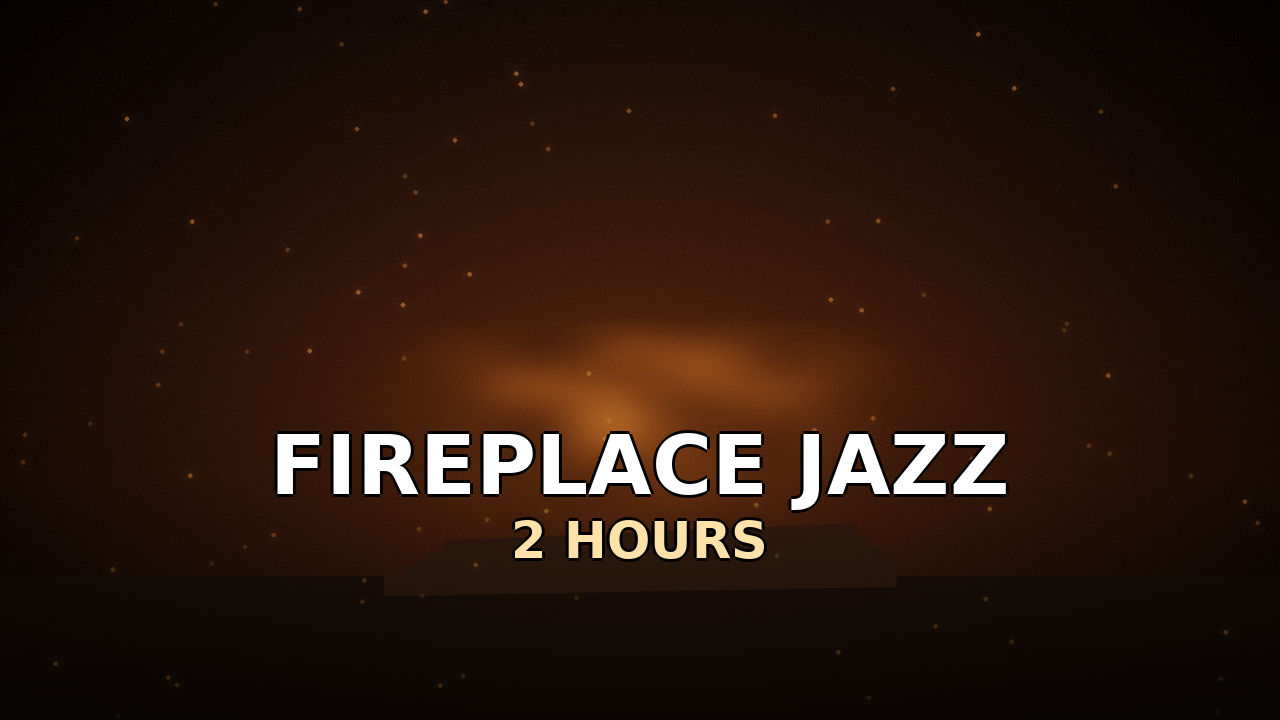
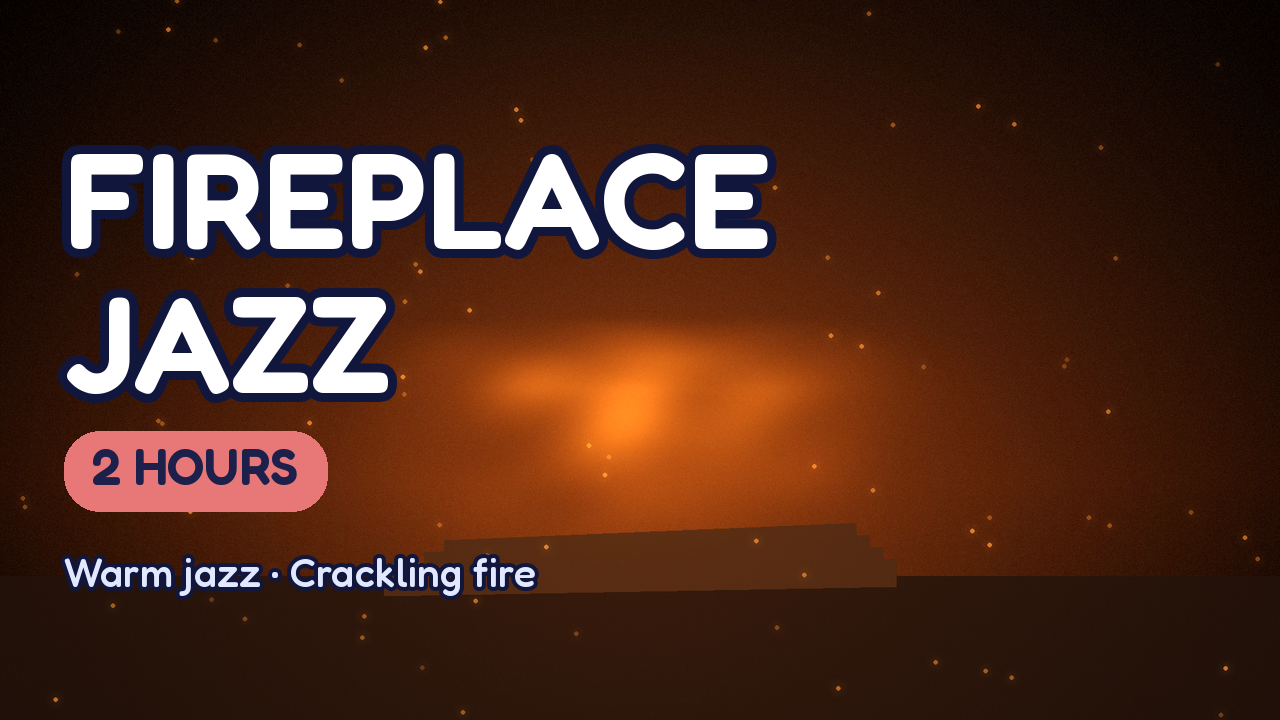
feat: BGM のサムネを太字スタイルに統一し、Sleep Piano 第2・3弾と B 柱の環境音削減を追加する
Claude-Session: https://claude.ai/code/session_014Nr9ShkX7adVXWWXqwiaYN

diff --git a/bgm_studio/tracks.py b/bgm_studio/tracks.py
@@ -333,14 +333,14 @@ def build_cafe_jazz(spec: TrackSpec, seconds: float) -> tuple[np.ndarray, dict]:
                 gain=0.30, octave=-2, rng=rng,
                 scale_root=spec.key_root, scale=spec.scale)
     A.play_jazz_brushes(buf, spans, clock, bank, gain=0.22, rng=rng)
-    A.play_melody(buf, spans, clock, bank, inst="piano", gain=0.22,
+    A.play_melody(buf, spans, clock, bank, inst="soft_piano", gain=0.22,
                   scale_root=spec.key_root, scale=spec.scale,
                   lo=64, hi=86, density=0.5, rng=rng, rest_prob=0.34, pan=0.15)
 
     ir = dsp.make_reverb_ir(2.2, rt60=1.5, damp=0.5, predelay=0.015, seed=spec.seed)
     n = clock.n_samples
     beds = [
-        (lambda: NT.cafe_ambience(n, seed=spec.seed + 1), -20.0),
+        (lambda: NT.cafe_ambience(n, seed=spec.seed + 1), -26.0),   # 旧 -20。雑音っぽさを避ける
         (lambda: NT.room_tone(n, seed=spec.seed + 2), -32.0),
     ]
 
@@ -376,7 +376,7 @@ def build_bossa(spec: TrackSpec, seconds: float) -> tuple[np.ndarray, dict]:
     ir = dsp.make_reverb_ir(2.0, rt60=1.3, damp=0.45, seed=spec.seed)
     n = clock.n_samples
     beds = [
-        (lambda: NT.cafe_ambience(n, seed=spec.seed + 1), -24.0),
+        (lambda: NT.cafe_ambience(n, seed=spec.seed + 1), -29.0),   # 旧 -24
         (lambda: NT.room_tone(n, seed=spec.seed + 2), -34.0),
     ]
 
@@ -849,7 +849,7 @@ def build_christmas_jazz(spec: TrackSpec, seconds: float) -> tuple[np.ndarray, d
 
     A.play_comp(buf, spans, clock, bank, inst="piano", style="jazz",
                 gain=0.24, voicing="rootless", center=62, swing=0.55, rng=rng)
-    A.play_melody(buf, spans, clock, bank, inst="celesta", gain=0.18,
+    A.play_melody(buf, spans, clock, bank, inst="music_box", gain=0.18,
                   scale_root=spec.key_root, scale=spec.scale,
                   lo=72, hi=93, density=0.40, rng=rng, rest_prob=0.42)
     A.play_bass(buf, spans, clock, bank, inst="upright", style="walk",
@@ -857,13 +857,13 @@ def build_christmas_jazz(spec: TrackSpec, seconds: float) -> tuple[np.ndarray, d
                 scale_root=spec.key_root, scale=spec.scale)
     A.play_jazz_brushes(buf, spans, clock, bank, gain=0.15, rng=rng,
                         ride_prob=0.35)
-    A.play_sleigh(buf, spans, clock, bank, gain=0.10, rng=rng)
+    A.play_sleigh(buf, spans, clock, bank, gain=0.06, rng=rng)   # 鈴はノイズ成分が多いので控えめに
 
     ir = dsp.make_reverb_ir(2.6, rt60=2.0, damp=0.5, predelay=0.02,
                             seed=spec.seed)
     n = clock.n_samples
     beds = [
-        (lambda: NT.fireplace(n, seed=spec.seed + 1), -18.0),
+        (lambda: NT.fireplace(n, seed=spec.seed + 1), -23.0),   # 旧 -18
         (lambda: NT.room_tone(n, seed=spec.seed + 2), -33.0),
     ]
 
@@ -1749,6 +1749,34 @@ TRACKS: list[TrackSpec] = [
             keywords=["sleep piano", "sleep music", "piano music for sleep",
                       "relaxing piano", "deep sleep music", "calm piano",
                       "sleep music no rain", "3 hours sleep music"],
+        ),
+    ),
+    TrackSpec(
+        slug="g02_deep_sleep_piano",
+        title_en="Deep Sleep Piano",
+        genre_ja="深い眠りのピアノ（雨音・雑音なし／第2弾）",
+        use_case="sleep", bpm=54.0, key="D", key_root=2, scale="major",
+        prog_key="ambient", visual="moon_lake_violet", seed=7202,
+        build=build_gentle_piano,
+        seo=dict(
+            title="Deep Sleep Piano 🌙 3 Hours of Calm Piano Music | No Rain, No Noise",
+            keywords=["deep sleep piano", "sleep music", "calm piano", "piano music for sleep",
+                      "relaxing sleep music", "sleep music no rain", "3 hours sleep music",
+                      "soft piano"],
+        ),
+    ),
+    TrackSpec(
+        slug="g03_emotional_sleep_piano",
+        title_en="Emotional Sleep Piano",
+        genre_ja="心に残る旋律の睡眠ピアノ（雨音・雑音なし／第3弾）",
+        use_case="sleep", bpm=60.0, key="C", key_root=0, scale="major",
+        prog_key="anime", visual="moon_lake_teal", seed=7303,
+        build=build_gentle_piano,
+        seo=dict(
+            title="Beautiful Sleep Piano 🌙 3 Hours of Emotional Piano for Sleep | No Rain, No Noise",
+            keywords=["sleep piano", "emotional piano", "beautiful piano music", "sleep music",
+                      "anime piano sleep", "relaxing piano", "piano music for sleep",
+                      "sleep music no rain"],
         ),
     ),
     TrackSpec(

diff --git a/bgm_studio/sleep_visuals.py b/bgm_studio/sleep_visuals.py
@@ -19,12 +19,24 @@ from .kids_visuals import _font, _outlined, moon_sprite, sparkle_sprite
 from .visuals import H, TWO_PI, W, _upscale, static_grain, vgrad
 
 
-def scene_moon_lake(seed: int = 90):
+# Sleep Piano シリーズの色違い。同じ構図で色だけ変え、シリーズとして並んだときに
+# 「同じチャンネルの別の回」と一目で分かるようにする
+PALETTES = {
+    "blue": dict(sky=[(14, 22, 58), (30, 42, 92), (62, 74, 134), (104, 104, 160)],
+                 ridge=[(36, 40, 82), (24, 28, 62)]),
+    "violet": dict(sky=[(28, 16, 58), (58, 36, 104), (112, 74, 150), (176, 120, 170)],
+                   ridge=[(62, 40, 96), (42, 26, 72)]),
+    "teal": dict(sky=[(8, 26, 46), (18, 54, 78), (40, 96, 116), (92, 140, 150)],
+                 ridge=[(20, 52, 66), (12, 36, 50)]),
+}
+
+
+def scene_moon_lake(seed: int = 90, palette: str = "blue"):
     """静かな湖に映る三日月。揺れるのは月の映り込みと星だけ"""
     rng = np.random.default_rng(seed)
+    pal = PALETTES[palette]
     horizon = 0.66
-    sky = vgrad([(14, 22, 58), (30, 42, 92), (62, 74, 134), (104, 104, 160)],
-                stops=[0.0, 0.40, 0.56, horizon])
+    sky = vgrad(pal["sky"], stops=[0.0, 0.40, 0.56, horizon])
     y = np.linspace(0, 1, H, dtype=np.float32)[:, None]
     x = np.linspace(0, 1, W, dtype=np.float32)[None, :]
     mx, my = 0.64, 0.28
@@ -37,8 +49,8 @@ def scene_moon_lake(seed: int = 90):
     ridge2 = horizon - 0.020 - 0.018 * np.sin(TWO_PI * (xs * 3.1 + 0.4))
     m1 = ((y >= ridge1[None, :]) & (y < horizon)).astype(np.float32)
     m2 = ((y >= ridge2[None, :]) & (y < horizon)).astype(np.float32)
-    sky = sky * (1 - m1[:, :, None]) + m1[:, :, None] * np.array([36, 40, 82])
-    sky = sky * (1 - m2[:, :, None]) + m2[:, :, None] * np.array([24, 28, 62])
+    sky = sky * (1 - m1[:, :, None]) + m1[:, :, None] * np.array(pal["ridge"][0])
+    sky = sky * (1 - m2[:, :, None]) + m2[:, :, None] * np.array(pal["ridge"][1])
     # 湖面 (空を上下反転して暗くしたもの)
     water_rows = H - int(horizon * H)
     top = int(horizon * H)
@@ -89,19 +101,25 @@ def scene_moon_lake(seed: int = 90):
     return frame
 
 
-SLEEP_SCENES = {"moon_lake": scene_moon_lake}
+SLEEP_SCENES = {
+    "moon_lake": scene_moon_lake,
+    "moon_lake_violet": lambda seed=90: scene_moon_lake(seed, "violet"),
+    "moon_lake_teal": lambda seed=90: scene_moon_lake(seed, "teal"),
+}
 
 
 def calm_thumbnail(title_lines: list[str], badge: str, promise: str,
                    scene: str = "moon_lake", seed: int = 90,
-                   size=(1280, 720)) -> Image.Image:
+                   size=(1280, 720), badge_color=(246, 214, 140),
+                   brighten: float = 1.12) -> Image.Image:
     """
     大人向け睡眠動画のサムネ: 左に大きな白い文字 2 行、その下に長さのバッジと「約束」の 1 行。
     子ども向けの黄色い文字とは色を変えて、同じチャンネルでも棚が分かれて見えるようにする
     """
-    frame = SLEEP_SCENES[scene](seed=seed)(0.2)
+    from .visuals import scene_maker
+    frame = scene_maker(scene)(seed=seed)(0.2)
     im = Image.fromarray(np.clip(frame, 0, 255).astype(np.uint8)).resize(size, Image.LANCZOS)
-    im = ImageEnhance.Brightness(im).enhance(1.12)
+    im = ImageEnhance.Brightness(im).enhance(brighten)
     im = ImageEnhance.Color(im).enhance(1.12).convert("RGBA")
     w, h = size
     d = ImageDraw.Draw(im)
@@ -120,7 +138,7 @@ def calm_thumbnail(title_lines: list[str], badge: str, promise: str,
     bw, bh = bb[2] - bb[0], bb[3] - bb[1]
     by = y + int(h * 0.04)
     d.rounded_rectangle([x0, by, x0 + bw + int(h * 0.08), by + bh + int(h * 0.06)],
-                        radius=int(h * 0.05), fill=(246, 214, 140))
+                        radius=int(h * 0.05), fill=badge_color)
     d.text((x0 + int(h * 0.04), by + int(h * 0.025) - bb[1]), badge, font=bf,
            fill=(28, 32, 74))
     pf = _font(int(h * 0.058), "Medium")

diff --git a/render_bgm.py b/render_bgm.py
@@ -318,6 +318,24 @@ KIDS_THUMB = {
 }
 
 
+# 大きな白い文字 2 行 + 長さのバッジ + 1 行の約束。2026-10-28 から BGM もこの型に統一
+# (旧来の「暗い映像に細い文字」はスマホの一覧で読めず、クリック率 0% が続いた)
+SLEEP_BADGE = (246, 214, 140)
+JAZZ_BADGE = (240, 168, 96)
+SEASON_BADGE = (232, 120, 120)
+BOLD_THUMB = {
+    "g01_gentle_piano_sleep": (["SLEEP", "PIANO"], "No rain · No noise · Just piano", SLEEP_BADGE),
+    "g02_deep_sleep_piano": (["DEEP SLEEP", "PIANO"], "No rain · No noise · Just piano", SLEEP_BADGE),
+    "g03_emotional_sleep_piano": (["BEAUTIFUL", "SLEEP PIANO"], "No rain · No noise · Just piano", SLEEP_BADGE),
+    "03_piano_and_rain": (["PIANO", "& RAIN"], "Soft piano · Gentle rain", SLEEP_BADGE),
+    "04_cozy_coffee_jazz": (["COFFEE", "JAZZ"], "Warm piano for work & study", JAZZ_BADGE),
+    "05_bossa_nova_cafe": (["BOSSA NOVA", "CAFE"], "Smooth guitar · Good mood", JAZZ_BADGE),
+    "07_fireplace_winter_jazz": (["FIREPLACE", "JAZZ"], "Warm jazz · Crackling fire", SEASON_BADGE),
+    "17_christmas_jazz": (["CHRISTMAS", "JAZZ"], "Cozy holiday piano", SEASON_BADGE),
+    "21_halloween_night": (["HALLOWEEN", "NIGHT"], "Spooky, not scary · Music box", SEASON_BADGE),
+}
+
+
 def _make_thumbnail(spec: TR.TrackSpec, total_seconds: float):
     if spec.slug in KIDS_THUMB:
         from bgm_studio import kids_visuals as KV
@@ -328,11 +346,14 @@ def _make_thumbnail(spec: TR.TrackSpec, total_seconds: float):
         badge = f"{length} LULLABY" if spec.slug != "n11_lullaby_medley" else f"{length} · 10 SONGS"
         return KV.kids_thumbnail(KIDS_THUMB[spec.slug], badge,
                                  "for Babies & Sleep", scene=spec.visual, seed=spec.seed)
-    if spec.visual == "moon_lake":
+    if spec.slug in BOLD_THUMB:
         from bgm_studio import sleep_visuals as SV
-        hrs = int(round(total_seconds / 3600.0))
-        return SV.calm_thumbnail(["SLEEP", "PIANO"], f"{hrs} HOURS",
-                                 "No rain · No noise · Just piano", seed=spec.seed)
+        lines, promise, color = BOLD_THUMB[spec.slug]
+        hrs = int(total_seconds // 3600)
+        # 暖炉・ハロウィン・雨の映像は暗いので、サムネだけ明るく持ち上げる
+        bright = 1.12 if spec.visual.startswith("moon_lake") else 1.4
+        return SV.calm_thumbnail(lines, f"{hrs} HOURS", promise, scene=spec.visual,
+                                 seed=spec.seed, badge_color=color, brighten=bright)
     return VIS.thumbnail(spec.visual, _thumb_lines(spec, total_seconds), seed=spec.seed)
 
 

diff --git a/bgm_studio/copywriting.py b/bgm_studio/copywriting.py
@@ -791,6 +791,40 @@ For falling asleep, staying asleep, reading in bed, or a quiet room.
 #   楽器はやわらかいピアノとオルゴールだけ / 調とテンポは最後まで同じ /
 #   やさしい 4 つの弾き方を 2 コーラスずつ回す / 映像はオリジナルキャラ Luna。
 
+DESCRIPTIONS["g02_deep_sleep_piano"] = """\
+🌙 DEEP SLEEP PIANO — {duration} of calm piano, with no rain and no noise
+
+The second in our Sleep Piano series, slower than the first: 54 beats a minute,
+long chords that change only every few bars, and a melody that returns like a
+song you already know. A soft piano and a quiet pad, with an occasional
+music-box note — and nothing else. No rain, no wind, no white noise.
+
+▸ No ambience layer of any kind — only instruments and their reverb
+▸ Same low, even dynamics for the whole {duration}
+▸ Loops seamlessly through the night
+
+For falling asleep, staying asleep, and quiet late nights.
+
+— Composed, arranged and animated for this channel.
+"""
+
+DESCRIPTIONS["g03_emotional_sleep_piano"] = """\
+🌙 BEAUTIFUL SLEEP PIANO — {duration} of gentle, emotional piano
+
+The third in our Sleep Piano series. This one uses the warm, slightly
+bittersweet chord changes you hear in Japanese film and anime soundtracks,
+slowed right down for sleep. The melody is soft and comes back again and again,
+so there is always something familiar to hold on to and nothing to wait for.
+
+▸ Soft piano and a quiet pad — no rain, no ambience, no hiss
+▸ A steady, resting 60 beats a minute
+▸ Loops seamlessly for the whole {duration}
+
+For bedtime, reading in bed, or a calm evening.
+
+— Composed, arranged and animated for this channel.
+"""
+
 DESCRIPTIONS["n11_lullaby_medley"] = """\
 🌙 10 LULLABIES FOR BABIES — {duration}, one song after another
 

diff --git a/bgm_studio/kids_visuals.py b/bgm_studio/kids_visuals.py
@@ -244,7 +244,8 @@ def kids_thumbnail(title_lines: list[str], badge: str, sub: str = "",
       左下: 用途のバッジ (桃色の角丸)
       右: キャラクター (映像の 1 コマ)
     """
-    frame = KIDS_SCENES[scene](seed=seed)(0.18)
+    from .visuals import scene_maker
+    frame = scene_maker(scene)(seed=seed)(0.18)
     im = Image.fromarray(np.clip(frame, 0, 255).astype(np.uint8)).resize(size, Image.LANCZOS)
     # 彩度を少し上げる (小さい表示でも目に留まる)
     from PIL import ImageEnhance
